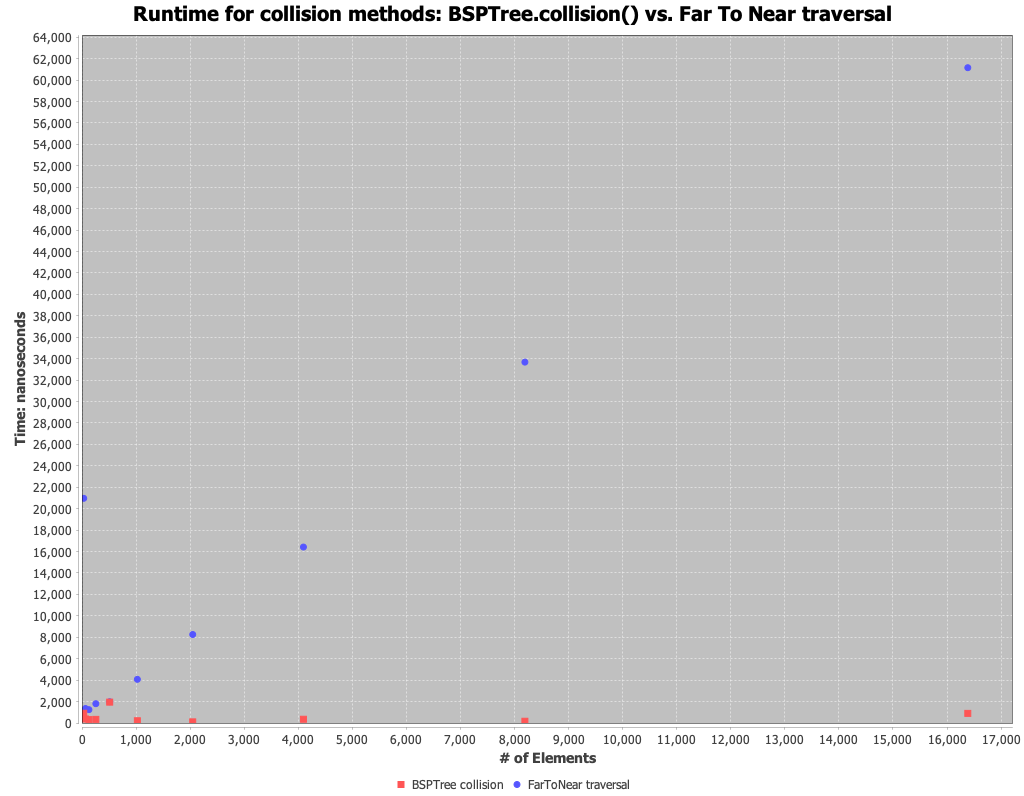
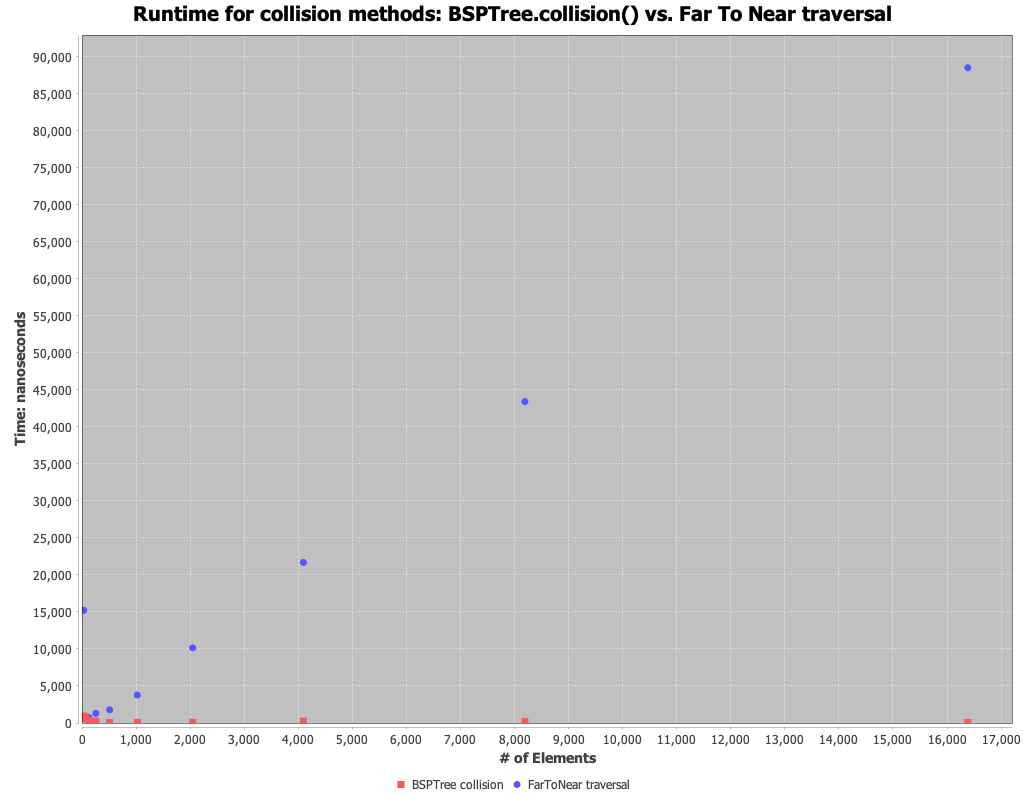
Fixed bugs. Reached concordance with unit tests and gradescope.

Changed region(s): [[0.0312, 0.0302, 0.125, 0.9045], [0.125, 0.8442, 0.1562, 0.8744]]

diff --git a/CS6012/Week5/Day2/Assignment9/src/assignment09/BSPTree.java b/CS6012/Week5/Day2/Assignment9/src/assignment09/BSPTree.java
@@ -6,10 +6,10 @@ import java.util.Random;
 
 /**
  * Binary Space Partitioning Tree
+ * Note: Convention for node insertion - "positive points" on the right and "negative points" on the left
  */
 public class BSPTree {
     private Node root_;
-    private int size_;
     static Random rand = new Random();
 
     /**
@@ -17,7 +17,6 @@ public class BSPTree {
      */
     public BSPTree(){
         root_ = null;
-        size_ = 0;
     }
 
     /**
@@ -70,12 +69,12 @@ public class BSPTree {
         for (Segment segment : segments) {
             if (pivot.whichSide(segment) == 0) {
                 Segment[] splitSeg = segment.split(pivot);
-                left.add(splitSeg[0]);
-                right.add(splitSeg[1]);
+                right.add(splitSeg[0]);
+                left.add(splitSeg[1]);
             } else if (pivot.whichSide(segment) == 1) {
-                right.add(segment);
-            } else {
                 left.add(segment);
+            } else {
+                right.add(segment);
             }
         }
         partitions[0] = left;
@@ -102,11 +101,14 @@ public class BSPTree {
      * @param segment segment to insert
      */
     public void insert(Segment segment) {
-        try {
-            root_ = insert_(segment, root_);
-            size_++;
-        } catch (IllegalArgumentException | NullPointerException e){
-            System.out.println("Failed to insert segment.");
+        if (root_ == null) {
+            root_ = new Node(segment);
+        } else {
+            try {
+                root_ = insert_(segment, root_);
+            } catch (IllegalArgumentException | NullPointerException e) {
+                System.out.println("Failed to insert segment.");
+            }
         }
     }
 
@@ -118,12 +120,14 @@ public class BSPTree {
      */
     private Node insert_(Segment segment, Node node) {
         if (node == null) {
-            node = new Node(segment);
-        } else if (segment.whichSide(node.value) < 0) {
+            return new Node(segment);
+        }
+        int side = node.value.whichSide(segment);
+        if (side < 0) {
             node.right = insert_(segment, node.right);
-        } else if (segment.whichSide(node.value) > 0) {
+        } else if (side > 0) {
             node.left = insert_(segment, node.left);
-        } else if (segment.whichSide(node.value) == 0) {
+        } else {
             Segment[] ret = segment.split(node.value);
             node.right = insert_(ret[0], node.right);
             node.left = insert_(ret[1], node.left);
@@ -136,13 +140,13 @@ public class BSPTree {
             return;
         }
         if (node.value.whichSidePoint(x, y) == -1){
-            farToNear(node.right, x, y, callback);
-            callback.callback(node.value);
             farToNear(node.left, x, y, callback);
+            callback.callback(node.value);
+            farToNear(node.right, x, y, callback);
         } else {
-            farToNear(node.left, x, y, callback);
-            callback.callback(node.value);
             farToNear(node.right, x, y, callback);
+            callback.callback(node.value);
+            farToNear(node.left, x, y, callback);
         }
     }
 
@@ -165,11 +169,12 @@ public class BSPTree {
     private Segment findCollision(Node n, Segment query){
         Segment collision = null;
         if (n != null) {
-            if (query.whichSide(n.value) == -1) {
+            int side = n.value.whichSide(query);
+            if (side == -1) {
                 return findCollision(n.right, query);
-            } else if (query.whichSide(n.value) == 1) {
+            } else if (side == 1) {
                 return findCollision(n.left, query);
-            } else if (query.intersects(n.value)) {
+            } else if (n.value.intersects(query)) {
                 collision = n.value;
             } else {
                 Segment[] splitSeg = query.split(n.value);

diff --git a/CS6012/Week5/Day2/Assignment9/src/assignment09/BSPTreeTest.java b/CS6012/Week5/Day2/Assignment9/src/assignment09/BSPTreeTest.java
@@ -29,6 +29,7 @@ class BSPTreeTest {
         Segment right = new Segment(2, 1, 3, 1);
 
         ArrayList<Segment> segments = new ArrayList<>();
+
         segments.add(root);
         segments.add(left);
         segments.add(right);
@@ -39,9 +40,47 @@ class BSPTreeTest {
 
         BSPTree.Node actual = tree.getTree();
         assertEquals(root, actual.value);
-        assertEquals(left, actual.right.value);
-        assertEquals(right, actual.left.value);
+        assertEquals(left, actual.left.value);
+        assertEquals(right, actual.right.value);
     }
+
+    @Test
+    void testSingleRootNodeInsert() {
+        Segment segment = new Segment(0, 0, 1, 1);
+        ArrayList<Segment> segments = new ArrayList<>();
+        segments.add(segment);
+
+        BSPTree tree = new BSPTree();
+        tree.insert(segment);
+
+        BSPTree.Node actual = tree.getTree();
+        assertEquals(segment, actual.value);
+        assertNull(actual.left);
+        assertNull(actual.right);
+    }
+
+    @Test
+    void testTwoChildNodeInsert() {
+        Segment root = new Segment(0, 0, 1, 1);
+        Segment left = new Segment(-1, 1, -2, 1);
+        Segment right = new Segment(2, 1, 3, 1);
+
+        ArrayList<Segment> segments = new ArrayList<>();
+        segments.add(root);
+        segments.add(left);
+        segments.add(right);
+
+        BSPTree tree = new BSPTree();
+        tree.insert(root);
+        tree.insert(left);
+        tree.insert(right);
+
+        BSPTree.Node actual = tree.getTree();
+        assertEquals(root, actual.value);
+        assertEquals(left, actual.left.value);
+        assertEquals(right, actual.right.value);
+    }
+
 
     @Test
     void testCollisionIsNullWithRootReAdd(){
@@ -74,5 +113,17 @@ class BSPTreeTest {
         Segment root = new Segment(0, 0, 1, 1);
         Segment left = new Segment(-1, 1, -2, 1);
         Segment right = new Segment(2, 1, 3, 1);
+
+        ArrayList<Segment> segments = new ArrayList<>();
+        segments.add(root);
+        segments.add(left);
+        segments.add(right);
+
+        BSPTree.rand = new Random(0);
+        BSPTree tree = new BSPTree(segments);
+        Segment rightCollision = new Segment(2.5, 0, 2.5, 1.5);
+
+        var collision = tree.collision(rightCollision);
+        assertEquals(right, collision);
     }
 }

diff --git a/CS6012/Week5/Day2/Assignment9/src/assignment09/Main.java b/CS6012/Week5/Day2/Assignment9/src/assignment09/Main.java
@@ -61,18 +61,19 @@ public class Main {
             problemSizes[i] = (int) Math.pow(2, i + 5);
         }
 
-        ArrayList<ExperimentResult> constructionResults = new ArrayList<>();
-        // Bulk BSP construction
+//        ArrayList<ExperimentResult> constructionResults = new ArrayList<>();
+//         Bulk BSP construction
 //        BulkConstructionTimer bcT = new BulkConstructionTimer(problemSizes, 100);
 //        TimerTemplate.Result[] bulkResults = bcT.run();
 //        constructionResults.add(new ExperimentResult(bulkResults, "Bulk Construction"));
-
+//
 //        plotResults(constructionResults, "Runtime for tree construction: Bulk constructor", "treeConstructionBulkOnly");
-         // Empty BSP construction
+
+//      Empty BSP construction
 //        EmptyConstructionTimer ecT = new EmptyConstructionTimer(problemSizes, 100);
 //        TimerTemplate.Result[] emptyResults = ecT.run();
 //        constructionResults.add(new ExperimentResult(emptyResults, "Iterative insert"));
-
+//
 //        plotResults(constructionResults, "Runtime for tree construction: Bulk constructor vs. iterative insert calls", "treeConstruction");
 
         ArrayList<ExperimentResult> collisionResults = new ArrayList<>();
